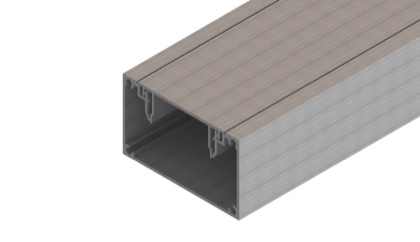
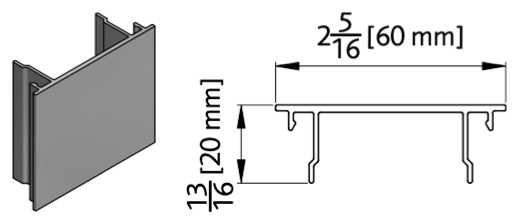
Kabelkanal CC 80 / CC 130 freigegeben

diff --git a/data.js b/data.js
@@ -34,6 +34,9 @@
     // Anschlagdichtung für 14 mm Glas (Option, Alternative zu 9); Zeichnung aus Montage_complete_OFFICE S. 7
     // Namen nur mit den OFFICE-Glasdicken (XL: 20/22/24, 26, 28 mm – kommt mit OFFICE XL)
     EP14:   { pos: 17, name: 'Anschlagdichtung 14 mm', nr: '41AL-EPDM 14', crl: 'FFP14BL / FFP14GR', img: 'EP14', optional: true },
+    // Kabelkanal CC 130 (Option, für alle Systeme) – bei CRL keine eigene Nummer
+    CC130B: { pos: 26, name: 'Kabelkanal Basisprofil (130 × 62 mm)', nr: '41AL-CC BASE 130', crl: '41AL-CC BASE 130', img: 'CC130B' },
+    CC130C: { pos: 27, name: 'Abdeckprofil für Kabelkanal 130 mm', nr: '41AL-CC COVER 130', crl: '41AL-CC COVER 130', img: 'CC130C' },
     CS:     { name: '180°-Verbinder',              nr: '41AL-OFFICE-CS',            crl: 'FCS', img: 'CS', optional: true },
     // Glas-Auflage-Winkel: bei Längle links und rechts getrennt, bei CRL als Set (brand = nur für diese Marke)
     TL3L:   { pos: 19, name: 'Glas-Auflage-Winkel links, Oberlicht', nr: '41AL-OFFICE-H-TL-L', crl: 'FTHHN1 / FTHHN1MBL', img: 'TL3L', brand: 'laengle' },
@@ -46,7 +49,7 @@
   };
   Object.keys(PARTS).forEach(k => { if (PARTS[k].img !== false) PARTS[k].img = 'img/profiles/' + (PARTS[k].img || 'p' + k) + '.jpg'; });
   // Reihenfolge in der Teileliste (Lena, 21.10.2026): erst alle Profile (Kabelkanal zuletzt), dann Dichtungen, dann Kleinteile – je aufsteigend
-  const PART_ORDER = [1, 2, 3, 4, 5, 'TL4', 'TL5', 'CLIPSD', 'CCB', 'CCC',
+  const PART_ORDER = [1, 2, 3, 4, 5, 'TL4', 'TL5', 'CLIPSD', 'CCB', 'CCC', 'CC130B', 'CC130C',
     6, 7, 8, 9, 'EP14',
     10, 11, 12, 13, 'CS', 14, 15, 16, 'CP', 'TL3L', 'TL3R', 'TL3', 'SDBL'];
 
@@ -121,9 +124,9 @@
     c180: { img: 'img/tools/ezcc.jpg', name: 'CRL-Verbindungsstreifen 180°', nr: 'EZCC', crl: 'EZCC' },
     c90: { img: 'img/tools/ezcl.jpg', name: 'CRL-Verbindungsstreifen 90° Ecke', nr: 'EZCL', crl: 'EZCL' }
   };
-  // Kabelkanal-Schnitte: FALLBROOK mit Zoll-Maßen
-  const ccFig = n => () => f(n + (window.BR && window.BR.id === 'crl' ? '_in' : ''));
-  const CC_TEXT = { L: 'Kabelkanal <b>(24)</b> links neben dem Türzargenprofil <b>(1)</b> einsetzen – vom Boden bis zur Decke.', R: 'Kabelkanal <b>(24)</b> rechts neben dem Türzargenprofil <b>(1)</b> einsetzen – vom Boden bis zur Decke.', LR: 'Kabelkanäle <b>(24)</b> links und rechts neben dem Türzargenprofil <b>(1)</b> einsetzen – jeweils vom Boden bis zur Decke.' };
+  // Kabelkanal CC 80 (Teile 24/25) oder CC 130 (26/27); Texte mit der passenden Positionsnummer
+  const CC = c => c.ccSize === 130 ? { b: 26, c: 27, parts: ['CC130B', 'CC130C'], fig: 'cc130' } : { b: 24, c: 25, parts: ['CCB', 'CCC'], fig: 'cc80' };
+  const CC_TEXT = (c, k) => ({ L: `Kabelkanal <b>(${CC(c).b})</b> links neben dem Türzargenprofil <b>(1)</b> einsetzen – vom Boden bis zur Decke.`, R: `Kabelkanal <b>(${CC(c).b})</b> rechts neben dem Türzargenprofil <b>(1)</b> einsetzen – vom Boden bis zur Decke.`, LR: `Kabelkanäle <b>(${CC(c).b})</b> links und rechts neben dem Türzargenprofil <b>(1)</b> einsetzen – jeweils vom Boden bis zur Decke.` })[k];
   // Zuschnitt (aus den FALLBROOK-Anleitungen): Ecken je Variante, die einem Verbindungsschritt zugeordnet sind; Ecklösung = eigenes Bild
   const pdfKey = c => c.type.toLowerCase() + (c.door === 'M' ? '3' : '24');
 
@@ -222,12 +225,12 @@
       id: 'kabelkanal', phase: 'frame', view: 'area', option: true,
       cond: c => c.cable && c.cc.length > 0,
       title: 'Kabelkanal einbauen (Option)',
-      parts: ['CCB', 'CCC'],
+      parts: c => CC(c).parts,
       text: [
-        c => ({ t: CC_TEXT[c.cc.length > 1 ? 'LR' : c.cc[0]], fig: [ccFig('cc80_schnitt')] }),
+        c => CC_TEXT(c, c.cc.length > 1 ? 'LR' : c.cc[0]),
         'Der Kabelkanal wird beim Zusammenbau des Rahmens gleich mit eingebaut: Er sitzt zwischen Türzargenprofil <b>(1)</b> und Basisrahmenprofil <b>(2)</b>.',
-        { t: 'Kabelkanal-Basisprofil <b>(24)</b> seitlich mit dem Türzargenprofil <b>(1)</b> und dem Basisrahmenprofil <b>(2)</b> verschrauben – mit selbstbohrenden Schrauben, verteilt über die ganze Höhe.', fig: [ccFig('cc80_schrauben')] },
-        'Nach der Elektroinstallation das Abdeckprofil <b>(25)</b> an die Gegebenheiten vor Ort anpassen (z. B. Aussparungen für Schalter und Steckdosen), auf Länge zuschneiden und einsetzen.'
+        c => ({ t: `Kabelkanal-Basisprofil <b>(${CC(c).b})</b> seitlich mit dem Türzargenprofil <b>(1)</b> und dem Basisrahmenprofil <b>(2)</b> verschrauben – mit selbstbohrenden Schrauben, verteilt über die ganze Höhe.`, fig: [f(CC(c).fig + '_schrauben')] }),
+        c => `Nach der Elektroinstallation das Abdeckprofil <b>(${CC(c).c})</b> an die Gegebenheiten vor Ort anpassen (z. B. Aussparungen für Schalter und Steckdosen), auf Länge zuschneiden und einsetzen.`
       ],
       notes: ['Selbstbohrende Schrauben (Profilverbindung inkl. Befestigungsmittel) werden bauseits beigestellt.'],
       spots: ['cc'], hl: ['cc']

diff --git a/app.js b/app.js
@@ -81,6 +81,7 @@ document.querySelectorAll('.i18n').forEach(el => { if (!el.dataset.i18n) el.data
       swing: q.get('swing') === '1' && !(v.type === 'C' && q.get('toplight') === '1'),
       // Kabelkanal: Option + gewählte Positionen (L/R = links/rechts neben der Tür)
       cable: FEAT.cable && q.get('kabel') === '1',
+      ccSize: q.get('kanal') === '130' ? 130 : 80,   // Kabelkanal CC 80 oder CC 130
       cc: (q.get('kk') || '').split(',').filter((p, i, a) => ['L', 'R'].includes(p) && a.indexOf(p) === i).sort()
     }, q.get('schritt'));
   }
@@ -92,6 +93,7 @@ document.querySelectorAll('.i18n').forEach(el => { if (!el.dataset.i18n) el.data
     if (cfg.topLight) q.push('toplight=1');
     if (cfg.swing) q.push('swing=1');
     if (cfg.cable) q.push('kabel=1');
+    if (cfg.cable && cfg.ccSize === 130) q.push('kanal=130');
     if (cfg.cc && cfg.cc.length) q.push('kk=' + cfg.cc.join(','));
     if (step) q.push('schritt=' + step);
     return '#/' + RT + '/' + cfg.code + (q.length ? '?' + q.join('&') : '');
@@ -282,7 +284,8 @@ function rerender() {
   // Profilmaße (vereinfacht, für die Sichtbarkeit leicht verbreitert)
   const F = 0.032, FD = 0.034, DF = 0.048, DD = 0.05, GT = 0.01;
   const H = 2.70, PW = 0.95, DW = 0.90, HD = 2.15, R = 0.8, TL_BOTTOM = 2.17;
-  const CCW = 0.08, CCD = DD;      // Kabelkanal CC 80: 80 mm breit, Tiefe bündig mit dem Türzargenprofil (48 mm)
+  // Kabelkanal: CC 80 = 80 × 48 mm (Tiefe bündig mit dem Türzargenprofil), CC 130 = 130 × 62 mm
+  const ccDim = cfg => cfg.ccSize === 130 ? { w: 0.13, d: 0.062 } : { w: 0.08, d: DD };
 
   function box(group, x0, y0, z0, x1, y1, z1, mat, tags = []) {
     const g = new THREE.BoxGeometry(Math.abs(x1 - x0), Math.abs(y1 - y0), Math.abs(z1 - z0));
@@ -343,6 +346,7 @@ function cyl(group, r, len, axis, mat, tags, pos) {
     const tJ = [];   // Glasstoßprofile (für den Zuschnitt)
 
     const ccL = cfg.cable && cfg.cc.includes('L'), ccR = cfg.cable && cfg.cc.includes('R');
+    const { w: CCW, d: CCD } = ccDim(cfg);
     const segs = [];
     (cfg.door === 'L' ? ['door', 'panel'] : cfg.door === 'R' ? ['panel', 'door'] : ['panel', 'door', 'panel'])
       .forEach(t => { if (t === 'door' && ccL) segs.push('cc'); segs.push(t); if (t === 'door' && ccR) segs.push('cc'); });
@@ -1053,7 +1057,7 @@ activeSteps().forEach((step, i) => {
   }
 
   function cfgLabel(cfg) {
-    const o = [cfg.corner ? T('Ecklösung') : T('gerade'), cfg.frameT && T('Glasstoß'), cfg.topLight && 'Top Light', cfg.swing && 'Swing Door', cfg.cable && T('Kabelkanal')].filter(Boolean);
+    const o = [cfg.corner ? T('Ecklösung') : T('gerade'), cfg.frameT && T('Glasstoß'), cfg.topLight && 'Top Light', cfg.swing && 'Swing Door', cfg.cable && T('Kabelkanal') + ' CC ' + cfg.ccSize].filter(Boolean);
     return `${cfg.code} · ${o.join(' · ')}`;
   }
 
@@ -1159,6 +1163,7 @@ activeSteps().forEach((step, i) => {
       });
       content = `<div class="pad">
         <p class="config-line">${esc(cfgLabel(cfg))}</p>
+        ${cfg.cable ? `<div class="cc-size"><span>${T('Kabelkanal')}</span>${[80, 130].map(n => `<button data-ccsize="${n}" class="${cfg.ccSize === n ? 'active' : ''}">CC ${n}</button>`).join('')}</div>` : ''}
         ${cfg.cable && !cfg.cc.length ? `<p class="cc-hint">${T('Tippen Sie im 3D-Modell auf ＋ neben der Tür, um einen Kabelkanal zu setzen.')}</p>` : ''}
         <p class="intro">${list.length} ${T('Schritte. Klicken Sie auf einen Punkt im Modell oder einen Schritt – oder starten Sie mit <b>„Schritt für Schritt“</b>.')}</p>
         ${html}</ul></div>`;
@@ -1228,11 +1233,12 @@ activeSteps().forEach((step, i) => {
   }
 
   body.addEventListener('click', e => {
-    const t = e.target.closest('[data-sel],[data-tab],[data-act],[data-img],[data-cut]');
+    const t = e.target.closest('[data-sel],[data-tab],[data-act],[data-img],[data-cut],[data-ccsize]');
     if (!t) return;
     setCcEdit(false);
     if (t.dataset.sel) select(t.dataset.sel);
     else if (t.dataset.cut) selectCut(t.dataset.cut);
+    else if (t.dataset.ccsize) location.hash = guideHash(Object.assign({}, state.cfg, { ccSize: +t.dataset.ccsize }), state.sel);
     else if (t.dataset.tab) { const was = state.cutSel; state.tab = t.dataset.tab; state.cutSel = null; renderPanel(); if (was) flyHome(); }
     else if (t.dataset.act === 'back') deselect();
     else if (t.dataset.act === 'next') go(1);

diff --git a/es.js b/es.js
@@ -90,6 +90,13 @@ window.I18N_ES = {
   'Clipprofil Pendeltür': 'Perfil clip para puerta de vaivén',
   'Anschlagdichtung 14 mm & 26 mm': 'Junta de tope para vidrio de 14 mm y 26 mm',
   'Anschlagdichtung 14 mm': 'Junta de acristalamiento 14 mm',
+  'Nach der Elektroinstallation das Abdeckprofil <b>(27)</b> an die Gegebenheiten vor Ort anpassen (z. B. Aussparungen für Schalter und Steckdosen), auf Länge zuschneiden und einsetzen.': 'Después de la instalación eléctrica, adapte el perfil de tapa <b>(27)</b> a las condiciones de la obra (p. ej., recortes para interruptores y enchufes), córtelo a medida y colóquelo.',
+  'Kabelkanal-Basisprofil <b>(26)</b> seitlich mit dem Türzargenprofil <b>(1)</b> und dem Basisrahmenprofil <b>(2)</b> verschrauben – mit selbstbohrenden Schrauben, verteilt über die ganze Höhe.': 'Atornille lateralmente el perfil base del canal para cables <b>(26)</b> al perfil del marco de la puerta <b>(1)</b> y al perfil base <b>(2)</b>, con tornillos autoperforantes repartidos en toda la altura.',
+  'Kabelkanal <b>(26)</b> links neben dem Türzargenprofil <b>(1)</b> einsetzen – vom Boden bis zur Decke.': 'Coloque el canal para cables <b>(26)</b> a la izquierda del perfil del marco de la puerta <b>(1)</b>, desde el suelo hasta el techo.',
+  'Kabelkanal <b>(26)</b> rechts neben dem Türzargenprofil <b>(1)</b> einsetzen – vom Boden bis zur Decke.': 'Coloque el canal para cables <b>(26)</b> a la derecha del perfil del marco de la puerta <b>(1)</b>, desde el suelo hasta el techo.',
+  'Kabelkanäle <b>(26)</b> links und rechts neben dem Türzargenprofil <b>(1)</b> einsetzen – jeweils vom Boden bis zur Decke.': 'Coloque los canales para cables <b>(26)</b> a la izquierda y a la derecha del perfil del marco de la puerta <b>(1)</b>, cada uno desde el suelo hasta el techo.',
+  'Kabelkanal Basisprofil (130 × 62 mm)': 'Perfil base de canal para cables (130 × 62 mm)',
+  'Abdeckprofil für Kabelkanal 130 mm': 'Perfil de tapa para canal para cables de 130 mm',
   'Der Kabelkanal wird beim Zusammenbau des Rahmens gleich mit eingebaut: Er sitzt zwischen Türzargenprofil <b>(1)</b> und Basisrahmenprofil <b>(2)</b>.': 'El canal para cables se monta al ensamblar el marco: se coloca entre el perfil del marco de la puerta <b>(1)</b> y el perfil base <b>(2)</b>.',
   'Nach der Elektroinstallation das Abdeckprofil <b>(25)</b> an die Gegebenheiten vor Ort anpassen (z. B. Aussparungen für Schalter und Steckdosen), auf Länge zuschneiden und einsetzen.': 'Después de la instalación eléctrica, adapte el perfil de tapa <b>(25)</b> a las condiciones de la obra (p. ej., recortes para interruptores y enchufes), córtelo a medida y colóquelo.',
   'Der Kabelkanal wird beim Zusammenbau des Rahmens gleich mit eingebaut: Er sitzt zwischen Türzargenprofil <b>(1)</b> und Basisrahmenprofil <b>(2)</b>. Die Anlage wird dadurch um die Kanalbreite breiter.': 'El canal para cables se monta al ensamblar el marco: se coloca entre el perfil del marco de la puerta <b>(1)</b> y el perfil base <b>(2)</b>. La instalación se ensancha en la anchura del canal.',

diff --git a/en.js b/en.js
@@ -90,6 +90,13 @@ window.I18N_EN = {
   'Clipprofil Pendeltür': 'Clip profile swing door',
   'Anschlagdichtung 14 mm & 26 mm': 'Stop gasket 14 mm & 26 mm glass',
   'Anschlagdichtung 14 mm': 'Stop gasket 14 mm',
+  'Nach der Elektroinstallation das Abdeckprofil <b>(27)</b> an die Gegebenheiten vor Ort anpassen (z. B. Aussparungen für Schalter und Steckdosen), auf Länge zuschneiden und einsetzen.': 'After the electrical installation, adapt the cover profile <b>(27)</b> to the conditions on site (e.g. cut-outs for switches and sockets), cut it to length and fit it.',
+  'Kabelkanal-Basisprofil <b>(26)</b> seitlich mit dem Türzargenprofil <b>(1)</b> und dem Basisrahmenprofil <b>(2)</b> verschrauben – mit selbstbohrenden Schrauben, verteilt über die ganze Höhe.': 'Screw the cable channel base profile <b>(26)</b> laterally to the door profile <b>(1)</b> and the base frame profile <b>(2)</b> – with self-drilling screws, distributed over the full height.',
+  'Kabelkanal <b>(26)</b> links neben dem Türzargenprofil <b>(1)</b> einsetzen – vom Boden bis zur Decke.': 'Insert the cable channel <b>(26)</b> to the left of the door frame profile <b>(1)</b> – from floor to ceiling.',
+  'Kabelkanal <b>(26)</b> rechts neben dem Türzargenprofil <b>(1)</b> einsetzen – vom Boden bis zur Decke.': 'Insert the cable channel <b>(26)</b> to the right of the door frame profile <b>(1)</b> – from floor to ceiling.',
+  'Kabelkanäle <b>(26)</b> links und rechts neben dem Türzargenprofil <b>(1)</b> einsetzen – jeweils vom Boden bis zur Decke.': 'Insert the cable channels <b>(26)</b> to the left and right of the door frame profile <b>(1)</b> – each from floor to ceiling.',
+  'Kabelkanal Basisprofil (130 × 62 mm)': 'Cable channel base profile (130 × 62 mm)',
+  'Abdeckprofil für Kabelkanal 130 mm': 'Cover profile for cable channel 130 mm',
   'Der Kabelkanal wird beim Zusammenbau des Rahmens gleich mit eingebaut: Er sitzt zwischen Türzargenprofil <b>(1)</b> und Basisrahmenprofil <b>(2)</b>.': 'The cable channel is installed while assembling the frame: it sits between the door profile <b>(1)</b> and the base frame profile <b>(2)</b>.',
   'Nach der Elektroinstallation das Abdeckprofil <b>(25)</b> an die Gegebenheiten vor Ort anpassen (z. B. Aussparungen für Schalter und Steckdosen), auf Länge zuschneiden und einsetzen.': 'After the electrical installation, adapt the cover profile <b>(25)</b> to the conditions on site (e.g. cut-outs for switches and sockets), cut it to length and fit it.',
   'Der Kabelkanal wird beim Zusammenbau des Rahmens gleich mit eingebaut: Er sitzt zwischen Türzargenprofil <b>(1)</b> und Basisrahmenprofil <b>(2)</b>. Die Anlage wird dadurch um die Kanalbreite breiter.': 'The cable channel is installed while assembling the frame: it sits between the door profile <b>(1)</b> and the base frame profile <b>(2)</b>. The installation becomes wider by the width of the channel.',

diff --git a/styles.css b/styles.css
@@ -431,3 +431,8 @@ i.sc { background: var(--cut-sc); }
 .hs.cut.open { display: none !important; }
 i.none { background: #c9ccd0; }
 .cut-dim.deg span { color: #b85a0c; font-size: 11.5px; }
+/* Kabelkanal-Größe CC 80 / CC 130 */
+.cc-size { display: flex; align-items: center; gap: 6px; margin: 0 0 10px; font-size: 13px; }
+.cc-size span { color: var(--ink-2); margin-right: 4px; }
+.cc-size button { border: 1px solid var(--line); background: #fff; border-radius: 16px; padding: 3px 12px; font: inherit; font-size: 13px; cursor: pointer; }
+.cc-size button.active { background: var(--accent); border-color: var(--accent); color: #fff; }

diff --git a/index.html b/index.html
@@ -78,7 +78,6 @@
     <button class="btn icon close" aria-label="Schließen">✕</button>
   </div>
 
-  <script>window.FEATURES = { cable: false };</script>
   <script>window.BRAND_ID = 'crl';</script>
   <script src="vendor/three.min.js"></script>
   <script src="vendor/OrbitControls.js"></script>
